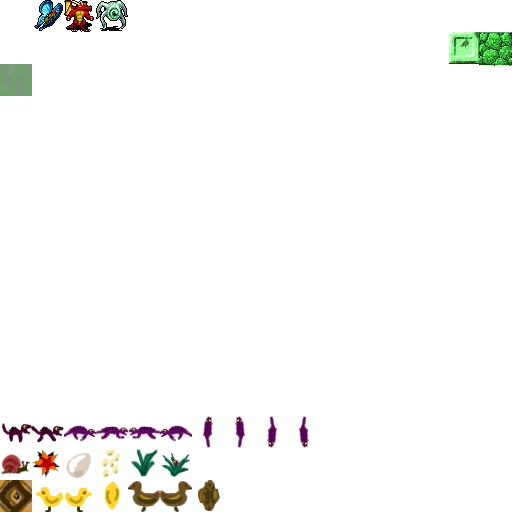
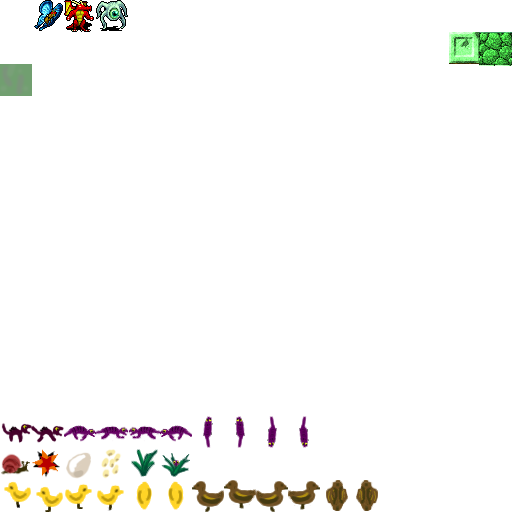
rm symbol, and add frame to water fowl movements

Changed region(s): [[0.125, 0.9375, 0.75, 1.0], [0.0, 0.9375, 0.0625, 1.0]]

diff --git a/wild-mongoose-chase/src/wmc/player.rs b/wild-mongoose-chase/src/wmc/player.rs
@@ -26,7 +26,7 @@ pub struct Segment {
     pub y: i32,
     pub direction_now: Direction,
     pub direction_next: Direction,
-    pub glyph: u16,
+    pub glyph: usize,
     pub is_alive: bool,
 }
 
@@ -36,7 +36,7 @@ impl Segment {
         y: i32,
         direction_now: Direction,
         direction_next: Direction,
-        glyph: u16,
+        glyph: usize,
     ) -> Self {
         Segment {
             x,
@@ -85,7 +85,6 @@ pub struct Player {
     frame: usize,
     pub length: i32,
     pub segments: Vec<Segment>,
-    pub(crate) symbol: Option<u16>,
 }
 
 #[derive(Copy, Clone, Debug, PartialEq)]
@@ -98,11 +97,10 @@ pub enum Direction {
 }
 
 impl Player {
-    pub fn new(x: i32, y: i32, symbol: Option<u16>) -> Self {
+    pub fn new(x: i32, y: i32) -> Self {
         Self {
             x,
             y,
-            symbol,
             frame: 0,
             length: 1,
             direction: Direction::Stopped,
@@ -119,16 +117,13 @@ impl Player {
 
     pub fn render(&mut self, ctx: &mut BTerm) {
         let mut glyph_idx = match self.direction {
-            Direction::Left => 244,
-            Direction::Right => 245,
-            Direction::Up => 246,
-            Direction::Down => 246,
-            _ => 244,
+            Direction::Left => 246,
+            Direction::Right => 248,
+            Direction::Up => 250,
+            Direction::Down => 250,
+            _ => 246,
         };
-        // player select override?
-        if let Some(symbol) = self.symbol {
-            glyph_idx = symbol;
-        }
+
         ctx.set_active_console(1);
         ctx.cls();
 
@@ -140,17 +135,17 @@ impl Player {
             PointF::new(1.0, 1.0),
             WHITE,
             (0, 0, 0, 0),
-            glyph_idx,
+            glyph_idx + self.frame,
         );
         let mut alive_segments: Vec<Segment> = Vec::new();
         alive_segments.push(*self.segments.get(0).clone().unwrap());
         for segment in self.segments.clone().iter().skip(1) {
             let mut glyph_seg_idx = match segment.direction_now {
-                Direction::Left => 241,
+                Direction::Left => 240,
                 Direction::Right => 242,
-                Direction::Up => 243,
-                Direction::Down => 243,
-                _ => 241,
+                Direction::Up => 244,
+                Direction::Down => 244,
+                _ => 240,
             };
             if !segment.is_alive {
                 glyph_seg_idx = 58;
@@ -164,7 +159,7 @@ impl Player {
                 PointF::new(1.0, 1.0),
                 WHITE,
                 (0, 0, 0, 0),
-                glyph_seg_idx, //glyph_idx, //0 as u16, //self.symbol //DRAGON_FRAMES[self.frame]
+                glyph_seg_idx + self.frame, //glyph_idx, //0 as u16, //self.symbol //DRAGON_FRAMES[self.frame]
             );
         }
         ctx.set_active_console(0);

diff --git a/wild-mongoose-chase/src/wmc/misc.rs b/wild-mongoose-chase/src/wmc/misc.rs
@@ -32,7 +32,7 @@ impl State {
 
         Self {
             mode: GameMode::GameMenu,
-            player: Player::new(random.range(1, WIDTH), random.range(1, HEIGHT), None),
+            player: Player::new(random.range(1, WIDTH), random.range(1, HEIGHT)),
             frame_time: 0.0,
             frame_time_mongoose: 0.0,
             spawn_time_items: 0.0,
@@ -50,10 +50,9 @@ impl State {
             self.player = Player::new(
                 random.range(1, WIDTH),
                 random.range(1, HEIGHT),
-                Some(symbol),
             );
         } else {
-            self.player = Player::new(random.range(1, WIDTH), random.range(1, HEIGHT), None);
+            self.player = Player::new(random.range(1, WIDTH), random.range(1, HEIGHT));
         }
         self.score = 0;
         self.items = vec![Item::spawn()];

diff --git a/wild-mongoose-chase/src/wmc/mongoose.rs b/wild-mongoose-chase/src/wmc/mongoose.rs
@@ -95,7 +95,7 @@ impl Mongoose {
         }
 
         match self.direction {
-            Direction::Stopped => {} //self.direction = rand::random(),
+            Direction::Stopped => self.direction = rand::random(),
             Direction::Left => {
                 self.x -= 1;
                 if self.x < 1 {
